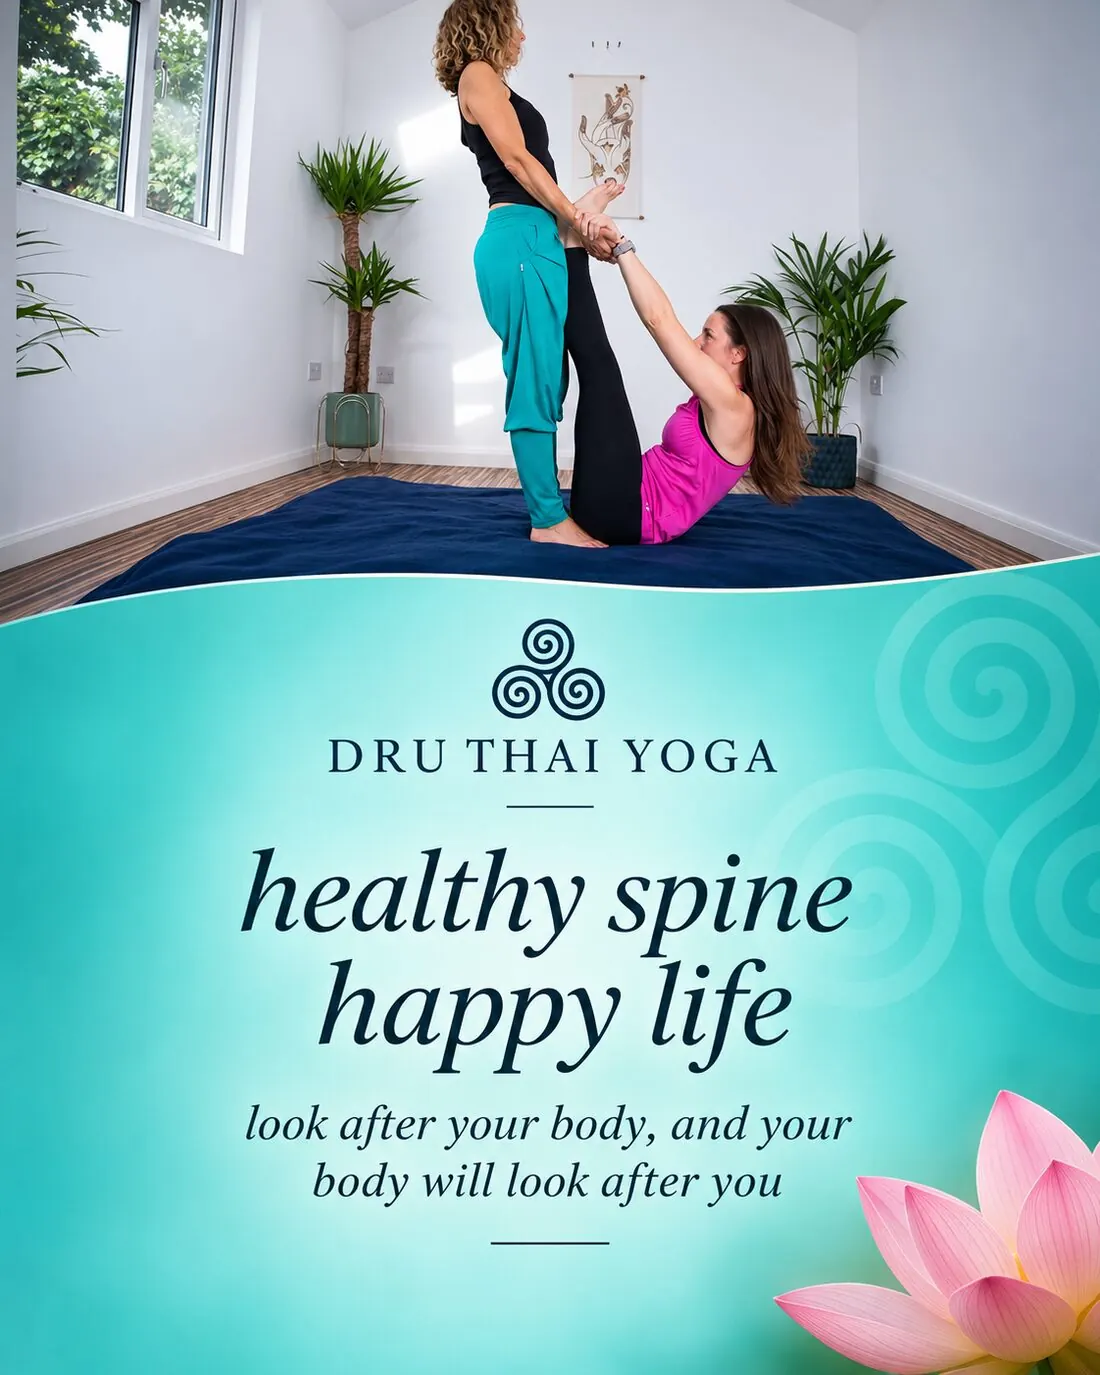
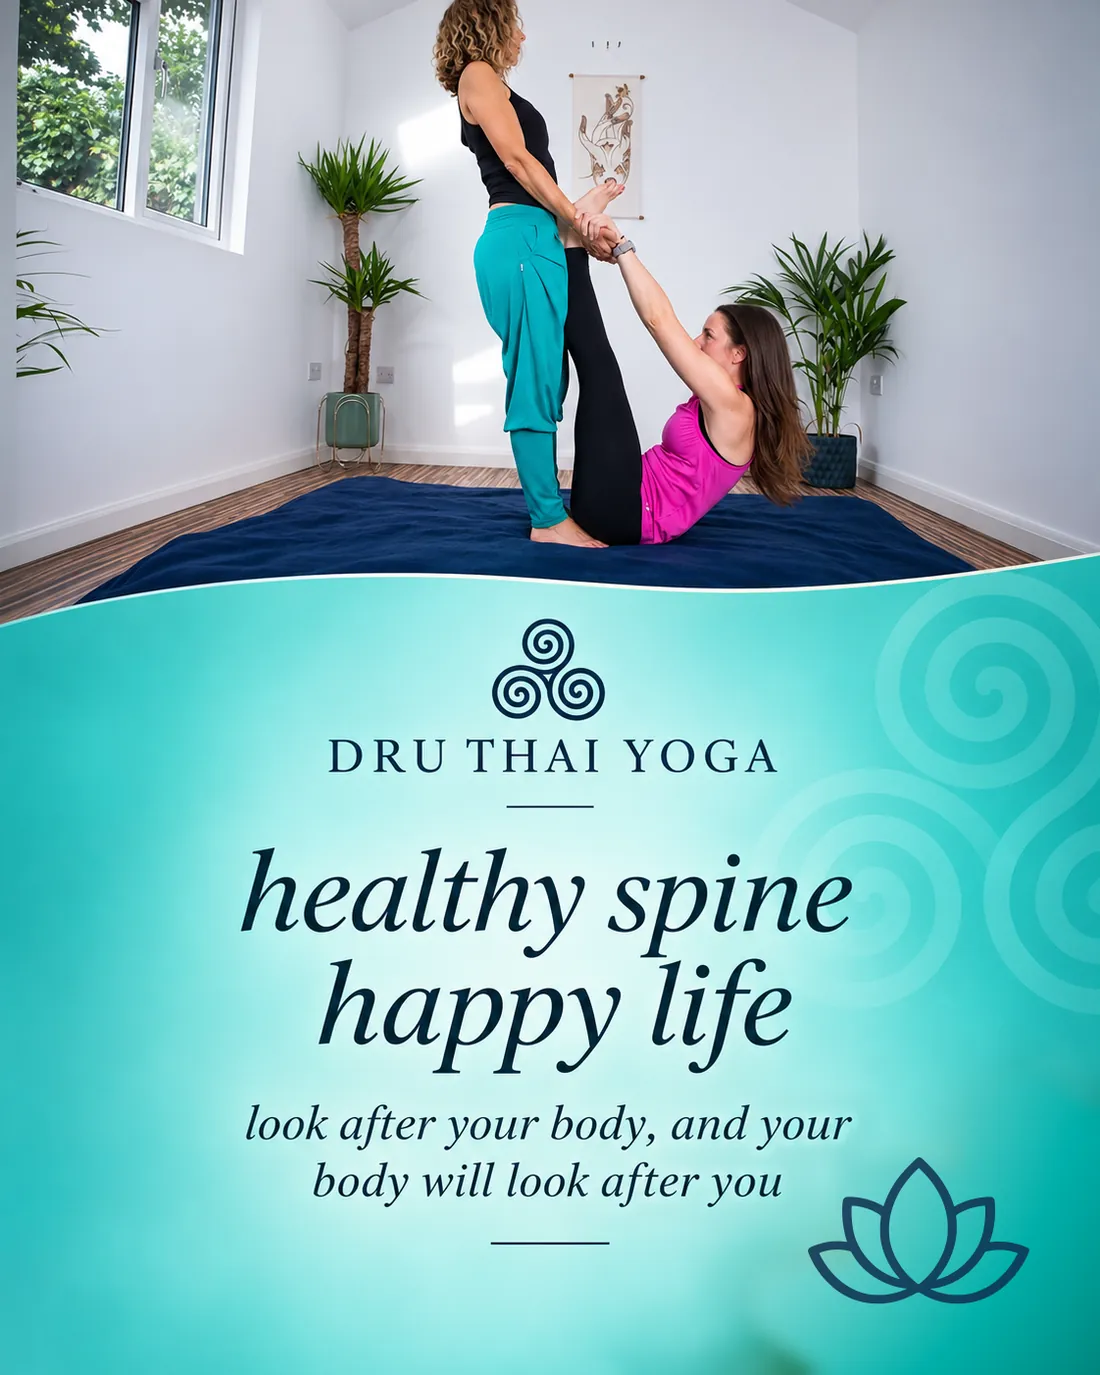
Remove pink lotus from posts and profile badge; use her line-art lotus
Claude-Session: https://claude.ai/code/session_01FcxNpTPyxYmMYDq1WFcVGY

Changed region(s): [[0.68, 0.7942, 1.0, 1.0]]

diff --git a/index.html b/index.html
@@ -497,7 +497,7 @@ nav{gap:18px}
 <div class="wrap">
 <div class="center"><div class="eyebrow">The treatment</div><h2>One treatment, done deeply</h2><p class="ital" style="margin:0;font-size:20px;color:var(--slate)">Every session is tailored to you and how your body feels on the day.</p></div>
 <div class="fcard" style="margin-top:52px;flex-wrap:wrap;align-items:stretch">
-<div class="timg"><img decoding="async" src="img/post-stretch.webp" alt="Thai yoga massage: a healing massage and a deep stretch" width="1100" height="1375"></div>
+<div class="timg"><img decoding="async" src="img/post-stretch.webp?v=2" alt="Thai yoga massage: a healing massage and a deep stretch" width="1100" height="1375"></div>
 <div style="flex:999 1 360px;min-width:0;padding:44px 40px;display:flex;flex-direction:column;gap:16px;position:relative;overflow:hidden">
 <svg class="spiral" style="width:200px;right:-50px;top:-50px;fill:var(--tq);opacity:.08" aria-hidden="true"><use href="#sp"/></svg>
 <img decoding="async" src="img/massage.webp" alt="" style="width:88px;filter:drop-shadow(0 10px 14px rgba(0,150,140,.25))">
@@ -588,13 +588,13 @@ nav{gap:18px}
 
 <section class="section" style="padding-top:20px">
 <div class="wrap center">
-<img decoding="async" class="profile" src="img/profile.webp" alt="Dru Thai Yoga Instagram profile picture">
+<img decoding="async" class="profile" src="img/profile.webp?v=2" alt="Dru Thai Yoga Instagram profile picture">
 <div class="eyebrow" style="margin-top:10px">Follow along on Instagram</div>
 <a href="https://www.instagram.com/druthaiyoga/" class="serif" style="font-size:34px;text-decoration:none">@druthaiyoga</a>
 <div class="gallery">
-<a href="https://www.instagram.com/druthaiyoga/"><img decoding="async" src="img/post-stretch.webp" alt="Healing massage and a deep stretch" loading="lazy"></a>
+<a href="https://www.instagram.com/druthaiyoga/"><img decoding="async" src="img/post-stretch.webp?v=2" alt="Healing massage and a deep stretch" loading="lazy"></a>
 <a href="https://www.instagram.com/druthaiyoga/"><img decoding="async" src="img/quote.webp" alt="Trusting life is the key that sets you free" loading="lazy"></a>
-<a href="https://www.instagram.com/druthaiyoga/"><img decoding="async" src="img/post-spine.webp" alt="Healthy spine, happy life" loading="lazy"></a>
+<a href="https://www.instagram.com/druthaiyoga/"><img decoding="async" src="img/post-spine.webp?v=2" alt="Healthy spine, happy life" loading="lazy"></a>
 <a href="https://www.instagram.com/druthaiyoga/"><img decoding="async" src="img/sunset-tree.webp" alt="Dru in tree pose at sunset" loading="lazy"></a>
 <a href="https://www.instagram.com/druthaiyoga/"><img decoding="async" src="img/riverside.webp" alt="Dru by the river" loading="lazy"></a>
 <a href="https://www.instagram.com/druthaiyoga/"><img decoding="async" src="img/sunset-warrior.webp" alt="Dru in warrior pose on the salt flats" loading="lazy"></a>
@@ -683,7 +683,7 @@ nav{gap:18px}
 </main>
 <footer>
 <div class="wrap fgrid">
-<div class="fcol fbrand"><div class="fb"><img decoding="async" src="img/profile.webp" alt="" width="70" height="70"><div><div class="serif" style="font-size:20px;letter-spacing:.06em">DRU THAI YOGA</div><div class="small">Traditional Thai Yoga Massage in Farnham</div></div></div>
+<div class="fcol fbrand"><div class="fb"><img decoding="async" src="img/profile.webp?v=2" alt="" width="70" height="70"><div><div class="serif" style="font-size:20px;letter-spacing:.06em">DRU THAI YOGA</div><div class="small">Traditional Thai Yoga Massage in Farnham</div></div></div>
 <p class="ital" style="margin:18px 0 0;color:var(--slate)">Deeply therapeutic bodywork, tailored to you.</p></div>
 <div class="fcol"><div class="eyebrow">Explore</div><a href="#treatments">The treatment</a><a href="#offers">Offers</a><a href="#about">About Dru</a><a href="#reviews">Reviews</a><a href="#book">Book a session</a></div>
 <div class="fcol"><div class="eyebrow">Contact</div><a href="tel:+447359185626">07359 185626</a><a href="mailto:druthaiyoga@gmail.com">druthaiyoga@gmail.com</a><a href="https://www.instagram.com/druthaiyoga/">Instagram · @druthaiyoga</a><span class="small" style="padding:10px 0">Farnham GU10, Surrey</span></div>
